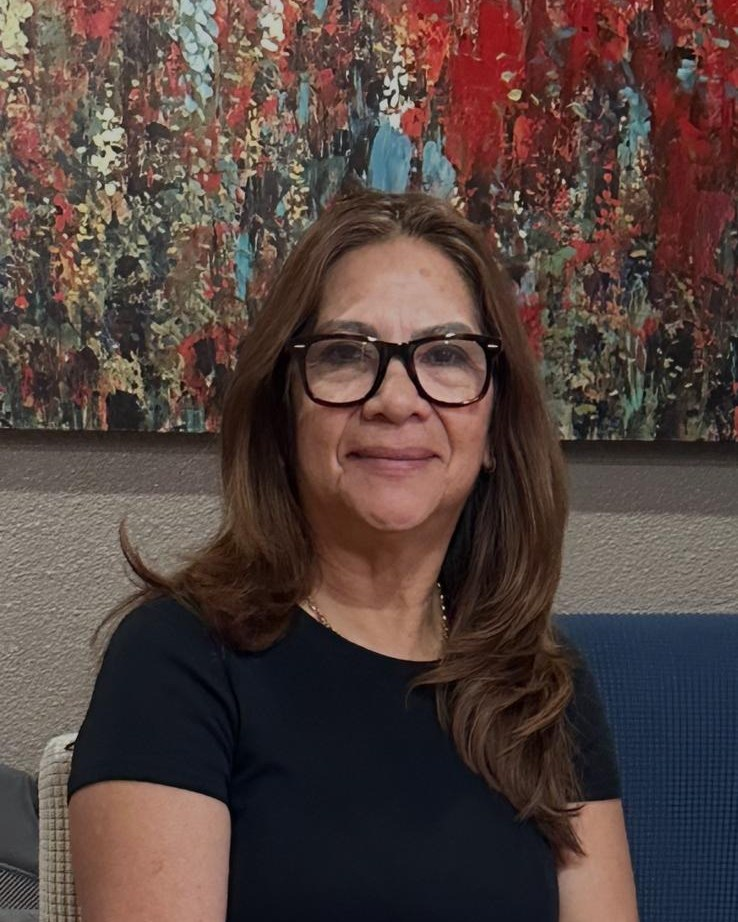
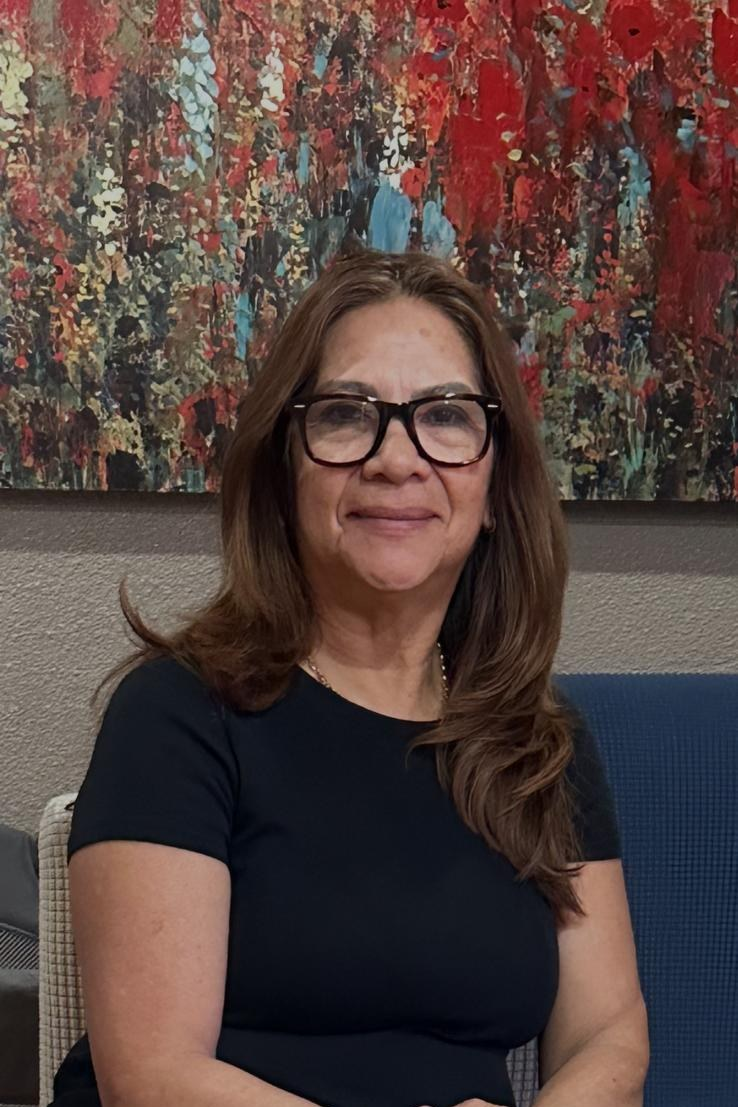
Ajustar encuadre de la foto de Eliza y rehacer el layout del equipo
Foto de la historia:
- Los atributos width/height anulaban el aspect-ratio, asi que la imagen
  se renderizaba a 469x922 y object-fit:cover recortaba los lados. Por eso
  se veia demasiado acercada al rostro.
- Quitar esos atributos, fijar aspect-ratio 4/6 y height:auto.
- Nuevo recorte 738x1107 que muestra la pose completa (cabeza a manos).
- Resultado: 469x704 de alto, mas baja que el texto (777) como se pidio.

Seccion de equipo:
- Nuevo .team-layout asimetrico (.82fr / 1.18fr) que ocupa los 1200px
  del contenedor, en vez de dos tarjetas centradas con espacio muerto
  a los lados.
- Titulo e intro a la izquierda, tarjetas a la derecha.
- Nueva pastilla .team-tag con el dato de experiencia combinada.
- Breakpoint 960px apila y centra; 640px pasa las tarjetas a una columna.
- Subir el cache buster a v18.

diff --git a/es/about/index.html b/es/about/index.html
@@ -26,7 +26,7 @@
 <link rel="preconnect" href="https://fonts.googleapis.com">
 <link rel="preconnect" href="https://fonts.gstatic.com" crossorigin>
 <link href="https://fonts.googleapis.com/css2?family=Fraunces:ital,opsz,wght@0,9..144,400;0,9..144,500;0,9..144,600;1,9..144,400&family=Plus+Jakarta+Sans:wght@400;500;600;700;800&display=swap" rel="stylesheet">
-<link rel="stylesheet" href="/assets/css/styles.css?v=17">
+<link rel="stylesheet" href="/assets/css/styles.css?v=18">
 
 <!-- Breadcrumb + AboutPage schema -->
 <script type="application/ld+json">
@@ -113,7 +113,7 @@
       <p>Aquí, los niños no son un número en un salón grande. Son <b>parte de nuestra familia</b> durante una etapa de sus vidas, y no tomamos esa confianza a la ligera.</p>
     </div>
     <div class="hero-media" style="max-width:none">
-      <img class="photo" src="/assets/img/elizabeth-portrait.jpg" alt="Eliza, proveedora licenciada de cuidado infantil familiar en Blossom Hill, San Jose" width="738" height="922" style="border-radius:var(--radius-lg);box-shadow:var(--shadow);aspect-ratio:4/4.7;object-position:50% 22%">
+      <img class="photo" src="/assets/img/elizabeth-portrait.jpg" alt="Eliza, proveedora licenciada de cuidado infantil familiar en Blossom Hill, San Jose" style="border-radius:var(--radius-lg);box-shadow:var(--shadow);aspect-ratio:4/6;height:auto;object-position:50% 30%">
     </div>
   </div>
 </section>
@@ -121,12 +121,14 @@
 <!-- TEAM -->
 <section class="section bg-sand">
   <div class="wrap">
-    <div class="section-head">
-      <span class="eyebrow">Conoce al equipo</span>
-      <h2>Las mismas caras de siempre, año tras año</h2>
-      <p>Eliza no hace esto sola. Dos cuidadoras llevan años siendo parte de esta casa, y son una gran razón por la que los niños se adaptan tan rápido y las familias se quedan tanto tiempo.</p>
-    </div>
-    <div class="team-grid">
+    <div class="team-layout">
+      <div class="team-intro">
+        <span class="eyebrow">Conoce al equipo</span>
+        <h2>Las mismas caras de siempre, año tras año</h2>
+        <p>Eliza no hace esto sola. Dos cuidadoras llevan años siendo parte de esta casa, y son una gran razón por la que los niños se adaptan tan rápido y las familias se quedan tanto tiempo.</p>
+        <span class="team-tag"><svg viewBox="0 0 24 24" aria-hidden="true"><circle cx="12" cy="12" r="9"/><path d="M12 7.5V12l3 2"/></svg>14 años de experiencia combinada en esta casa</span>
+      </div>
+      <div class="team-grid">
       <div class="team-card">
         <div class="team-ava"><img src="/assets/img/team-vilma.jpg" alt="Vilma Villarroel, cuidadora en Eliza's Family Childcare en San Jose" width="738" height="738" loading="lazy"></div>
         <h3>Vilma Villarroel</h3>
@@ -138,6 +140,7 @@
         <h3>Ana Piñeros</h3>
         <div class="team-role">Cuidadora</div>
         <span class="team-years"><svg viewBox="0 0 24 24" aria-hidden="true"><path d="M12 20.5s-6.6-4.2-6.6-9A3.9 3.9 0 0 1 12 8.7a3.9 3.9 0 0 1 6.6 2.8c0 4.8-6.6 9-6.6 9z"/></svg>4 años con Eliza's</span>
+      </div>
       </div>
     </div>
   </div>
@@ -282,7 +285,7 @@
   </div>
 </footer>
 
-<script src="/assets/js/main.js?v=17"></script>
+<script src="/assets/js/main.js?v=18"></script>
 <!-- WhatsApp flotante -->
 <a class="wa-float" href="https://wa.me/14083359357?text=Hola%2C%20me%20gustar%C3%ADa%20m%C3%A1s%20informaci%C3%B3n%20sobre%20Eliza%27s%20Family%20Childcare." target="_blank" rel="noopener" aria-label="Escríbenos por WhatsApp">
   <svg viewBox="0 0 32 32" aria-hidden="true"><path d="M16 3C9.4 3 4 8.4 4 15c0 2.1.6 4.1 1.6 5.9L4 29l8.3-1.6c1.7.9 3.6 1.4 5.7 1.4 6.6 0 12-5.4 12-12S22.6 3 16 3zm0 21.8c-1.8 0-3.5-.5-5-1.4l-.4-.2-4.9 1 1-4.8-.2-.4c-1-1.6-1.5-3.4-1.5-5.3C5 9.5 9.9 4.6 16 4.6S27 9.5 27 15.6 22.1 24.8 16 24.8zm6.1-7.9c-.3-.2-1.9-1-2.2-1.1-.3-.1-.5-.2-.7.2-.2.3-.8 1.1-1 1.3-.2.2-.4.2-.7.1-.3-.2-1.4-.5-2.6-1.6-1-.9-1.6-2-1.8-2.3-.2-.3 0-.5.1-.7.1-.1.3-.4.5-.6.2-.2.2-.3.3-.5.1-.2 0-.4 0-.6-.1-.2-.7-1.7-1-2.3-.3-.6-.5-.5-.7-.5h-.6c-.2 0-.6.1-.9.4-.3.3-1.2 1.1-1.2 2.7s1.2 3.1 1.4 3.4c.2.2 2.4 3.7 5.9 5.2.8.4 1.5.6 2 .7.8.3 1.6.2 2.2.1.7-.1 2-.8 2.2-1.6.3-.8.3-1.4.2-1.6-.1-.2-.3-.2-.6-.4z"/></svg>

diff --git a/about/index.html b/about/index.html
@@ -26,7 +26,7 @@
 <link rel="preconnect" href="https://fonts.googleapis.com">
 <link rel="preconnect" href="https://fonts.gstatic.com" crossorigin>
 <link href="https://fonts.googleapis.com/css2?family=Fraunces:ital,opsz,wght@0,9..144,400;0,9..144,500;0,9..144,600;1,9..144,400&family=Plus+Jakarta+Sans:wght@400;500;600;700;800&display=swap" rel="stylesheet">
-<link rel="stylesheet" href="/assets/css/styles.css?v=17">
+<link rel="stylesheet" href="/assets/css/styles.css?v=18">
 
 <!-- Breadcrumb + AboutPage schema -->
 <script type="application/ld+json">
@@ -113,7 +113,7 @@
       <p>Here, children aren't a number in a big room. They're <b>part of our family</b> for a season of their lives, and we don't take that trust lightly.</p>
     </div>
     <div class="hero-media" style="max-width:none">
-      <img class="photo" src="/assets/img/elizabeth-portrait.jpg" alt="Eliza, licensed family childcare provider in Blossom Hill, San Jose" width="738" height="922" style="border-radius:var(--radius-lg);box-shadow:var(--shadow);aspect-ratio:4/4.7;object-position:50% 22%">
+      <img class="photo" src="/assets/img/elizabeth-portrait.jpg" alt="Eliza, licensed family childcare provider in Blossom Hill, San Jose" style="border-radius:var(--radius-lg);box-shadow:var(--shadow);aspect-ratio:4/6;height:auto;object-position:50% 30%">
     </div>
   </div>
 </section>
@@ -121,12 +121,14 @@
 <!-- TEAM -->
 <section class="section bg-sand">
   <div class="wrap">
-    <div class="section-head">
-      <span class="eyebrow">Meet the team</span>
-      <h2>The same loving faces, year after year</h2>
-      <p>Eliza doesn't do this alone. Two caregivers have been part of this home for years, and they're a big reason children settle in so fast and families stay so long.</p>
-    </div>
-    <div class="team-grid">
+    <div class="team-layout">
+      <div class="team-intro">
+        <span class="eyebrow">Meet the team</span>
+        <h2>The same loving faces, year after year</h2>
+        <p>Eliza doesn't do this alone. Two caregivers have been part of this home for years, and they're a big reason children settle in so fast and families stay so long.</p>
+        <span class="team-tag"><svg viewBox="0 0 24 24" aria-hidden="true"><circle cx="12" cy="12" r="9"/><path d="M12 7.5V12l3 2"/></svg>14 years of combined experience in this home</span>
+      </div>
+      <div class="team-grid">
       <div class="team-card">
         <div class="team-ava"><img src="/assets/img/team-vilma.jpg" alt="Vilma Villarroel, caregiver at Eliza's Family Childcare in San Jose" width="738" height="738" loading="lazy"></div>
         <h3>Vilma Villarroel</h3>
@@ -138,6 +140,7 @@
         <h3>Ana Pi&ntilde;eros</h3>
         <div class="team-role">Caregiver</div>
         <span class="team-years"><svg viewBox="0 0 24 24" aria-hidden="true"><path d="M12 20.5s-6.6-4.2-6.6-9A3.9 3.9 0 0 1 12 8.7a3.9 3.9 0 0 1 6.6 2.8c0 4.8-6.6 9-6.6 9z"/></svg>4 years with Eliza's</span>
+      </div>
       </div>
     </div>
   </div>
@@ -281,7 +284,7 @@
   </div>
 </footer>
 
-<script src="/assets/js/main.js?v=17"></script>
+<script src="/assets/js/main.js?v=18"></script>
 <!-- Cambio de idioma flotante -->
 <a class="lang-float" href="/es/about/" aria-label="Cambiar el sitio a espanol"><svg viewBox="0 0 24 24" aria-hidden="true"><circle cx="12" cy="12" r="9"/><path d="M3 12h18M12 3c2.5 2.6 3.8 5.7 3.8 9s-1.3 6.4-3.8 9c-2.5-2.6-3.8-5.7-3.8-9S9.5 5.6 12 3z"/></svg><span>Español</span></a>
 </body>

diff --git a/assets/css/styles.css b/assets/css/styles.css
@@ -419,8 +419,14 @@ section{position:relative;}
 .cred p{font-size:14px;margin:0;}
 
 /* Team / caregivers */
-.team-grid{display:grid;grid-template-columns:repeat(2,1fr);gap:26px;max-width:820px;margin:0 auto;}
-.team-card{background:#fff;border:1px solid var(--line);border-radius:var(--radius-lg);padding:34px 26px 30px;text-align:center;position:relative;overflow:hidden;
+.team-layout{display:grid;grid-template-columns:.82fr 1.18fr;gap:56px;align-items:center;}
+.team-intro h2{font-size:clamp(28px,3.2vw,40px);margin:12px 0 14px;}
+.team-intro p{font-size:16.5px;color:var(--slate);}
+.team-intro .team-tag{display:inline-flex;align-items:center;gap:9px;margin-top:20px;padding:11px 18px;border-radius:var(--radius);
+  background:#fff;border:1px solid var(--line);font-size:14px;font-weight:700;color:var(--midnight);}
+.team-intro .team-tag svg{width:19px;height:19px;flex:none;fill:none;stroke:var(--orchid);stroke-width:2;stroke-linecap:round;stroke-linejoin:round;}
+.team-grid{display:grid;grid-template-columns:repeat(2,1fr);gap:24px;}
+.team-card{background:#fff;border:1px solid var(--line);border-radius:var(--radius-lg);padding:34px 24px 30px;text-align:center;position:relative;overflow:hidden;
   transition:transform .35s var(--ease),box-shadow .35s var(--ease),border-color .35s;}
 .team-card::before{content:"";position:absolute;left:0;top:0;height:5px;width:100%;background:linear-gradient(90deg,var(--orchid),var(--mango));opacity:.85;}
 .team-card:hover{transform:translateY(-6px);box-shadow:var(--shadow);border-color:transparent;}
@@ -432,7 +438,8 @@ section{position:relative;}
   background:rgba(218,112,214,.14);color:#A5399F;font-size:13px;font-weight:800;letter-spacing:.01em;}
 .team-years svg{width:14px;height:14px;fill:none;stroke:currentColor;stroke-width:2.2;stroke-linecap:round;stroke-linejoin:round;}
 .team-card p.team-note{font-size:14.5px;margin-top:14px;}
-@media (max-width:640px){.team-grid{grid-template-columns:1fr;max-width:380px;gap:22px;}.team-ava{width:160px;height:160px;}}
+@media (max-width:960px){.team-layout{grid-template-columns:1fr;gap:36px;}.team-intro{text-align:center;max-width:640px;margin:0 auto;}}
+@media (max-width:640px){.team-grid{grid-template-columns:1fr;max-width:380px;margin:0 auto;gap:22px;}.team-ava{width:160px;height:160px;}}
 @media (prefers-reduced-motion:reduce){.team-card{transition:none;}.team-card:hover{transform:none;}}
 
 /* Value row (icon + text list) */

diff --git a/es/index.html b/es/index.html
@@ -29,7 +29,7 @@
 <link rel="preconnect" href="https://fonts.googleapis.com">
 <link rel="preconnect" href="https://fonts.gstatic.com" crossorigin>
 <link href="https://fonts.googleapis.com/css2?family=Fraunces:ital,opsz,wght@0,9..144,400;0,9..144,500;0,9..144,600;1,9..144,400&family=Plus+Jakarta+Sans:wght@400;500;600;700;800&display=swap" rel="stylesheet">
-<link rel="stylesheet" href="/assets/css/styles.css?v=17">
+<link rel="stylesheet" href="/assets/css/styles.css?v=18">
 
 <!-- ================= JSON-LD: ChildCare / LocalBusiness (GEO + NAP) ================= -->
 <script type="application/ld+json">
@@ -413,7 +413,7 @@
   </div>
 </footer>
 
-<script src="/assets/js/main.js?v=17"></script>
+<script src="/assets/js/main.js?v=18"></script>
 <!-- WhatsApp flotante -->
 <a class="wa-float" href="https://wa.me/14083359357?text=Hola%2C%20me%20gustar%C3%ADa%20m%C3%A1s%20informaci%C3%B3n%20sobre%20Eliza%27s%20Family%20Childcare." target="_blank" rel="noopener" aria-label="Escríbenos por WhatsApp">
   <svg viewBox="0 0 32 32" aria-hidden="true"><path d="M16 3C9.4 3 4 8.4 4 15c0 2.1.6 4.1 1.6 5.9L4 29l8.3-1.6c1.7.9 3.6 1.4 5.7 1.4 6.6 0 12-5.4 12-12S22.6 3 16 3zm0 21.8c-1.8 0-3.5-.5-5-1.4l-.4-.2-4.9 1 1-4.8-.2-.4c-1-1.6-1.5-3.4-1.5-5.3C5 9.5 9.9 4.6 16 4.6S27 9.5 27 15.6 22.1 24.8 16 24.8zm6.1-7.9c-.3-.2-1.9-1-2.2-1.1-.3-.1-.5-.2-.7.2-.2.3-.8 1.1-1 1.3-.2.2-.4.2-.7.1-.3-.2-1.4-.5-2.6-1.6-1-.9-1.6-2-1.8-2.3-.2-.3 0-.5.1-.7.1-.1.3-.4.5-.6.2-.2.2-.3.3-.5.1-.2 0-.4 0-.6-.1-.2-.7-1.7-1-2.3-.3-.6-.5-.5-.7-.5h-.6c-.2 0-.6.1-.9.4-.3.3-1.2 1.1-1.2 2.7s1.2 3.1 1.4 3.4c.2.2 2.4 3.7 5.9 5.2.8.4 1.5.6 2 .7.8.3 1.6.2 2.2.1.7-.1 2-.8 2.2-1.6.3-.8.3-1.4.2-1.6-.1-.2-.3-.2-.6-.4z"/></svg>

diff --git a/es/contact/index.html b/es/contact/index.html
@@ -26,7 +26,7 @@
 <link rel="preconnect" href="https://fonts.googleapis.com">
 <link rel="preconnect" href="https://fonts.gstatic.com" crossorigin>
 <link href="https://fonts.googleapis.com/css2?family=Fraunces:ital,opsz,wght@0,9..144,400;0,9..144,500;0,9..144,600;1,9..144,400&family=Plus+Jakarta+Sans:wght@400;500;600;700;800&display=swap" rel="stylesheet">
-<link rel="stylesheet" href="/assets/css/styles.css?v=17">
+<link rel="stylesheet" href="/assets/css/styles.css?v=18">
 
 <script type="application/ld+json">
 {
@@ -261,7 +261,7 @@
   </div>
 </footer>
 
-<script src="/assets/js/main.js?v=17"></script>
+<script src="/assets/js/main.js?v=18"></script>
 <!-- WhatsApp flotante -->
 <a class="wa-float" href="https://wa.me/14083359357?text=Hola%2C%20me%20gustar%C3%ADa%20m%C3%A1s%20informaci%C3%B3n%20sobre%20Eliza%27s%20Family%20Childcare." target="_blank" rel="noopener" aria-label="Escríbenos por WhatsApp">
   <svg viewBox="0 0 32 32" aria-hidden="true"><path d="M16 3C9.4 3 4 8.4 4 15c0 2.1.6 4.1 1.6 5.9L4 29l8.3-1.6c1.7.9 3.6 1.4 5.7 1.4 6.6 0 12-5.4 12-12S22.6 3 16 3zm0 21.8c-1.8 0-3.5-.5-5-1.4l-.4-.2-4.9 1 1-4.8-.2-.4c-1-1.6-1.5-3.4-1.5-5.3C5 9.5 9.9 4.6 16 4.6S27 9.5 27 15.6 22.1 24.8 16 24.8zm6.1-7.9c-.3-.2-1.9-1-2.2-1.1-.3-.1-.5-.2-.7.2-.2.3-.8 1.1-1 1.3-.2.2-.4.2-.7.1-.3-.2-1.4-.5-2.6-1.6-1-.9-1.6-2-1.8-2.3-.2-.3 0-.5.1-.7.1-.1.3-.4.5-.6.2-.2.2-.3.3-.5.1-.2 0-.4 0-.6-.1-.2-.7-1.7-1-2.3-.3-.6-.5-.5-.7-.5h-.6c-.2 0-.6.1-.9.4-.3.3-1.2 1.1-1.2 2.7s1.2 3.1 1.4 3.4c.2.2 2.4 3.7 5.9 5.2.8.4 1.5.6 2 .7.8.3 1.6.2 2.2.1.7-.1 2-.8 2.2-1.6.3-.8.3-1.4.2-1.6-.1-.2-.3-.2-.6-.4z"/></svg>

diff --git a/es/faq/index.html b/es/faq/index.html
@@ -26,7 +26,7 @@
 <link rel="preconnect" href="https://fonts.googleapis.com">
 <link rel="preconnect" href="https://fonts.gstatic.com" crossorigin>
 <link href="https://fonts.googleapis.com/css2?family=Fraunces:ital,opsz,wght@0,9..144,400;0,9..144,500;0,9..144,600;1,9..144,400&family=Plus+Jakarta+Sans:wght@400;500;600;700;800&display=swap" rel="stylesheet">
-<link rel="stylesheet" href="/assets/css/styles.css?v=17">
+<link rel="stylesheet" href="/assets/css/styles.css?v=18">
 
 <script type="application/ld+json">
 {
@@ -203,7 +203,7 @@
   </div>
 </footer>
 
-<script src="/assets/js/main.js?v=17"></script>
+<script src="/assets/js/main.js?v=18"></script>
 <!-- WhatsApp flotante -->
 <a class="wa-float" href="https://wa.me/14083359357?text=Hola%2C%20me%20gustar%C3%ADa%20m%C3%A1s%20informaci%C3%B3n%20sobre%20Eliza%27s%20Family%20Childcare." target="_blank" rel="noopener" aria-label="Escríbenos por WhatsApp">
   <svg viewBox="0 0 32 32" aria-hidden="true"><path d="M16 3C9.4 3 4 8.4 4 15c0 2.1.6 4.1 1.6 5.9L4 29l8.3-1.6c1.7.9 3.6 1.4 5.7 1.4 6.6 0 12-5.4 12-12S22.6 3 16 3zm0 21.8c-1.8 0-3.5-.5-5-1.4l-.4-.2-4.9 1 1-4.8-.2-.4c-1-1.6-1.5-3.4-1.5-5.3C5 9.5 9.9 4.6 16 4.6S27 9.5 27 15.6 22.1 24.8 16 24.8zm6.1-7.9c-.3-.2-1.9-1-2.2-1.1-.3-.1-.5-.2-.7.2-.2.3-.8 1.1-1 1.3-.2.2-.4.2-.7.1-.3-.2-1.4-.5-2.6-1.6-1-.9-1.6-2-1.8-2.3-.2-.3 0-.5.1-.7.1-.1.3-.4.5-.6.2-.2.2-.3.3-.5.1-.2 0-.4 0-.6-.1-.2-.7-1.7-1-2.3-.3-.6-.5-.5-.7-.5h-.6c-.2 0-.6.1-.9.4-.3.3-1.2 1.1-1.2 2.7s1.2 3.1 1.4 3.4c.2.2 2.4 3.7 5.9 5.2.8.4 1.5.6 2 .7.8.3 1.6.2 2.2.1.7-.1 2-.8 2.2-1.6.3-.8.3-1.4.2-1.6-.1-.2-.3-.2-.6-.4z"/></svg>

diff --git a/es/gallery/index.html b/es/gallery/index.html
@@ -26,7 +26,7 @@
 <link rel="preconnect" href="https://fonts.googleapis.com">
 <link rel="preconnect" href="https://fonts.gstatic.com" crossorigin>
 <link href="https://fonts.googleapis.com/css2?family=Fraunces:ital,opsz,wght@0,9..144,400;0,9..144,500;0,9..144,600;1,9..144,400&family=Plus+Jakarta+Sans:wght@400;500;600;700;800&display=swap" rel="stylesheet">
-<link rel="stylesheet" href="/assets/css/styles.css?v=17">
+<link rel="stylesheet" href="/assets/css/styles.css?v=18">
 
 <script type="application/ld+json">
 {
@@ -494,7 +494,7 @@
   </div>
 </footer>
 
-<script src="/assets/js/main.js?v=17"></script>
+<script src="/assets/js/main.js?v=18"></script>
 <!-- WhatsApp flotante -->
 <a class="wa-float" href="https://wa.me/14083359357?text=Hola%2C%20me%20gustar%C3%ADa%20m%C3%A1s%20informaci%C3%B3n%20sobre%20Eliza%27s%20Family%20Childcare." target="_blank" rel="noopener" aria-label="Escríbenos por WhatsApp">
   <svg viewBox="0 0 32 32" aria-hidden="true"><path d="M16 3C9.4 3 4 8.4 4 15c0 2.1.6 4.1 1.6 5.9L4 29l8.3-1.6c1.7.9 3.6 1.4 5.7 1.4 6.6 0 12-5.4 12-12S22.6 3 16 3zm0 21.8c-1.8 0-3.5-.5-5-1.4l-.4-.2-4.9 1 1-4.8-.2-.4c-1-1.6-1.5-3.4-1.5-5.3C5 9.5 9.9 4.6 16 4.6S27 9.5 27 15.6 22.1 24.8 16 24.8zm6.1-7.9c-.3-.2-1.9-1-2.2-1.1-.3-.1-.5-.2-.7.2-.2.3-.8 1.1-1 1.3-.2.2-.4.2-.7.1-.3-.2-1.4-.5-2.6-1.6-1-.9-1.6-2-1.8-2.3-.2-.3 0-.5.1-.7.1-.1.3-.4.5-.6.2-.2.2-.3.3-.5.1-.2 0-.4 0-.6-.1-.2-.7-1.7-1-2.3-.3-.6-.5-.5-.7-.5h-.6c-.2 0-.6.1-.9.4-.3.3-1.2 1.1-1.2 2.7s1.2 3.1 1.4 3.4c.2.2 2.4 3.7 5.9 5.2.8.4 1.5.6 2 .7.8.3 1.6.2 2.2.1.7-.1 2-.8 2.2-1.6.3-.8.3-1.4.2-1.6-.1-.2-.3-.2-.6-.4z"/></svg>

diff --git a/es/programs/index.html b/es/programs/index.html
@@ -26,7 +26,7 @@
 <link rel="preconnect" href="https://fonts.googleapis.com">
 <link rel="preconnect" href="https://fonts.gstatic.com" crossorigin>
 <link href="https://fonts.googleapis.com/css2?family=Fraunces:ital,opsz,wght@0,9..144,400;0,9..144,500;0,9..144,600;1,9..144,400&family=Plus+Jakarta+Sans:wght@400;500;600;700;800&display=swap" rel="stylesheet">
-<link rel="stylesheet" href="/assets/css/styles.css?v=17">
+<link rel="stylesheet" href="/assets/css/styles.css?v=18">
 
 <script type="application/ld+json">
 {
@@ -229,7 +229,7 @@
   </div>
 </footer>
 
-<script src="/assets/js/main.js?v=17"></script>
+<script src="/assets/js/main.js?v=18"></script>
 <!-- WhatsApp flotante -->
 <a class="wa-float" href="https://wa.me/14083359357?text=Hola%2C%20me%20gustar%C3%ADa%20m%C3%A1s%20informaci%C3%B3n%20sobre%20Eliza%27s%20Family%20Childcare." target="_blank" rel="noopener" aria-label="Escríbenos por WhatsApp">
   <svg viewBox="0 0 32 32" aria-hidden="true"><path d="M16 3C9.4 3 4 8.4 4 15c0 2.1.6 4.1 1.6 5.9L4 29l8.3-1.6c1.7.9 3.6 1.4 5.7 1.4 6.6 0 12-5.4 12-12S22.6 3 16 3zm0 21.8c-1.8 0-3.5-.5-5-1.4l-.4-.2-4.9 1 1-4.8-.2-.4c-1-1.6-1.5-3.4-1.5-5.3C5 9.5 9.9 4.6 16 4.6S27 9.5 27 15.6 22.1 24.8 16 24.8zm6.1-7.9c-.3-.2-1.9-1-2.2-1.1-.3-.1-.5-.2-.7.2-.2.3-.8 1.1-1 1.3-.2.2-.4.2-.7.1-.3-.2-1.4-.5-2.6-1.6-1-.9-1.6-2-1.8-2.3-.2-.3 0-.5.1-.7.1-.1.3-.4.5-.6.2-.2.2-.3.3-.5.1-.2 0-.4 0-.6-.1-.2-.7-1.7-1-2.3-.3-.6-.5-.5-.7-.5h-.6c-.2 0-.6.1-.9.4-.3.3-1.2 1.1-1.2 2.7s1.2 3.1 1.4 3.4c.2.2 2.4 3.7 5.9 5.2.8.4 1.5.6 2 .7.8.3 1.6.2 2.2.1.7-.1 2-.8 2.2-1.6.3-.8.3-1.4.2-1.6-.1-.2-.3-.2-.6-.4z"/></svg>

diff --git a/es/programs/infant-care/index.html b/es/programs/infant-care/index.html
@@ -26,7 +26,7 @@
 <link rel="preconnect" href="https://fonts.googleapis.com">
 <link rel="preconnect" href="https://fonts.gstatic.com" crossorigin>
 <link href="https://fonts.googleapis.com/css2?family=Fraunces:ital,opsz,wght@0,9..144,400;0,9..144,500;0,9..144,600;1,9..144,400&family=Plus+Jakarta+Sans:wght@400;500;600;700;800&display=swap" rel="stylesheet">
-<link rel="stylesheet" href="/assets/css/styles.css?v=17">
+<link rel="stylesheet" href="/assets/css/styles.css?v=18">
 
 <script type="application/ld+json">
 {
@@ -226,7 +226,7 @@
   </div>
 </footer>
 
-<script src="/assets/js/main.js?v=17"></script>
+<script src="/assets/js/main.js?v=18"></script>
 <!-- WhatsApp flotante -->
 <a class="wa-float" href="https://wa.me/14083359357?text=Hola%2C%20me%20gustar%C3%ADa%20m%C3%A1s%20informaci%C3%B3n%20sobre%20Eliza%27s%20Family%20Childcare." target="_blank" rel="noopener" aria-label="Escríbenos por WhatsApp">
   <svg viewBox="0 0 32 32" aria-hidden="true"><path d="M16 3C9.4 3 4 8.4 4 15c0 2.1.6 4.1 1.6 5.9L4 29l8.3-1.6c1.7.9 3.6 1.4 5.7 1.4 6.6 0 12-5.4 12-12S22.6 3 16 3zm0 21.8c-1.8 0-3.5-.5-5-1.4l-.4-.2-4.9 1 1-4.8-.2-.4c-1-1.6-1.5-3.4-1.5-5.3C5 9.5 9.9 4.6 16 4.6S27 9.5 27 15.6 22.1 24.8 16 24.8zm6.1-7.9c-.3-.2-1.9-1-2.2-1.1-.3-.1-.5-.2-.7.2-.2.3-.8 1.1-1 1.3-.2.2-.4.2-.7.1-.3-.2-1.4-.5-2.6-1.6-1-.9-1.6-2-1.8-2.3-.2-.3 0-.5.1-.7.1-.1.3-.4.5-.6.2-.2.2-.3.3-.5.1-.2 0-.4 0-.6-.1-.2-.7-1.7-1-2.3-.3-.6-.5-.5-.7-.5h-.6c-.2 0-.6.1-.9.4-.3.3-1.2 1.1-1.2 2.7s1.2 3.1 1.4 3.4c.2.2 2.4 3.7 5.9 5.2.8.4 1.5.6 2 .7.8.3 1.6.2 2.2.1.7-.1 2-.8 2.2-1.6.3-.8.3-1.4.2-1.6-.1-.2-.3-.2-.6-.4z"/></svg>

diff --git a/es/programs/preschool/index.html b/es/programs/preschool/index.html
@@ -26,7 +26,7 @@
 <link rel="preconnect" href="https://fonts.googleapis.com">
 <link rel="preconnect" href="https://fonts.gstatic.com" crossorigin>
 <link href="https://fonts.googleapis.com/css2?family=Fraunces:ital,opsz,wght@0,9..144,400;0,9..144,500;0,9..144,600;1,9..144,400&family=Plus+Jakarta+Sans:wght@400;500;600;700;800&display=swap" rel="stylesheet">
-<link rel="stylesheet" href="/assets/css/styles.css?v=17">
+<link rel="stylesheet" href="/assets/css/styles.css?v=18">
 
 <script type="application/ld+json">
 {
@@ -225,7 +225,7 @@
   </div>
 </footer>
 
-<script src="/assets/js/main.js?v=17"></script>
+<script src="/assets/js/main.js?v=18"></script>
 <!-- WhatsApp flotante -->
 <a class="wa-float" href="https://wa.me/14083359357?text=Hola%2C%20me%20gustar%C3%ADa%20m%C3%A1s%20informaci%C3%B3n%20sobre%20Eliza%27s%20Family%20Childcare." target="_blank" rel="noopener" aria-label="Escríbenos por WhatsApp">
   <svg viewBox="0 0 32 32" aria-hidden="true"><path d="M16 3C9.4 3 4 8.4 4 15c0 2.1.6 4.1 1.6 5.9L4 29l8.3-1.6c1.7.9 3.6 1.4 5.7 1.4 6.6 0 12-5.4 12-12S22.6 3 16 3zm0 21.8c-1.8 0-3.5-.5-5-1.4l-.4-.2-4.9 1 1-4.8-.2-.4c-1-1.6-1.5-3.4-1.5-5.3C5 9.5 9.9 4.6 16 4.6S27 9.5 27 15.6 22.1 24.8 16 24.8zm6.1-7.9c-.3-.2-1.9-1-2.2-1.1-.3-.1-.5-.2-.7.2-.2.3-.8 1.1-1 1.3-.2.2-.4.2-.7.1-.3-.2-1.4-.5-2.6-1.6-1-.9-1.6-2-1.8-2.3-.2-.3 0-.5.1-.7.1-.1.3-.4.5-.6.2-.2.2-.3.3-.5.1-.2 0-.4 0-.6-.1-.2-.7-1.7-1-2.3-.3-.6-.5-.5-.7-.5h-.6c-.2 0-.6.1-.9.4-.3.3-1.2 1.1-1.2 2.7s1.2 3.1 1.4 3.4c.2.2 2.4 3.7 5.9 5.2.8.4 1.5.6 2 .7.8.3 1.6.2 2.2.1.7-.1 2-.8 2.2-1.6.3-.8.3-1.4.2-1.6-.1-.2-.3-.2-.6-.4z"/></svg>

diff --git a/es/programs/toddler-care/index.html b/es/programs/toddler-care/index.html
@@ -26,7 +26,7 @@
 <link rel="preconnect" href="https://fonts.googleapis.com">
 <link rel="preconnect" href="https://fonts.gstatic.com" crossorigin>
 <link href="https://fonts.googleapis.com/css2?family=Fraunces:ital,opsz,wght@0,9..144,400;0,9..144,500;0,9..144,600;1,9..144,400&family=Plus+Jakarta+Sans:wght@400;500;600;700;800&display=swap" rel="stylesheet">
-<link rel="stylesheet" href="/assets/css/styles.css?v=17">
+<link rel="stylesheet" href="/assets/css/styles.css?v=18">
 
 <script type="application/ld+json">
 {
@@ -225,7 +225,7 @@
   </div>
 </footer>
 
-<script src="/assets/js/main.js?v=17"></script>
+<script src="/assets/js/main.js?v=18"></script>
 <!-- WhatsApp flotante -->
 <a class="wa-float" href="https://wa.me/14083359357?text=Hola%2C%20me%20gustar%C3%ADa%20m%C3%A1s%20informaci%C3%B3n%20sobre%20Eliza%27s%20Family%20Childcare." target="_blank" rel="noopener" aria-label="Escríbenos por WhatsApp">
   <svg viewBox="0 0 32 32" aria-hidden="true"><path d="M16 3C9.4 3 4 8.4 4 15c0 2.1.6 4.1 1.6 5.9L4 29l8.3-1.6c1.7.9 3.6 1.4 5.7 1.4 6.6 0 12-5.4 12-12S22.6 3 16 3zm0 21.8c-1.8 0-3.5-.5-5-1.4l-.4-.2-4.9 1 1-4.8-.2-.4c-1-1.6-1.5-3.4-1.5-5.3C5 9.5 9.9 4.6 16 4.6S27 9.5 27 15.6 22.1 24.8 16 24.8zm6.1-7.9c-.3-.2-1.9-1-2.2-1.1-.3-.1-.5-.2-.7.2-.2.3-.8 1.1-1 1.3-.2.2-.4.2-.7.1-.3-.2-1.4-.5-2.6-1.6-1-.9-1.6-2-1.8-2.3-.2-.3 0-.5.1-.7.1-.1.3-.4.5-.6.2-.2.2-.3.3-.5.1-.2 0-.4 0-.6-.1-.2-.7-1.7-1-2.3-.3-.6-.5-.5-.7-.5h-.6c-.2 0-.6.1-.9.4-.3.3-1.2 1.1-1.2 2.7s1.2 3.1 1.4 3.4c.2.2 2.4 3.7 5.9 5.2.8.4 1.5.6 2 .7.8.3 1.6.2 2.2.1.7-.1 2-.8 2.2-1.6.3-.8.3-1.4.2-1.6-.1-.2-.3-.2-.6-.4z"/></svg>

diff --git a/es/tuition/index.html b/es/tuition/index.html
@@ -26,7 +26,7 @@
 <link rel="preconnect" href="https://fonts.googleapis.com">
 <link rel="preconnect" href="https://fonts.gstatic.com" crossorigin>
 <link href="https://fonts.googleapis.com/css2?family=Fraunces:ital,opsz,wght@0,9..144,400;0,9..144,500;0,9..144,600;1,9..144,400&family=Plus+Jakarta+Sans:wght@400;500;600;700;800&display=swap" rel="stylesheet">
-<link rel="stylesheet" href="/assets/css/styles.css?v=17">
+<link rel="stylesheet" href="/assets/css/styles.css?v=18">
 
 <script type="application/ld+json">
 {
@@ -299,7 +299,7 @@
   </div>
 </footer>
 
-<script src="/assets/js/main.js?v=17"></script>
+<script src="/assets/js/main.js?v=18"></script>
 <!-- WhatsApp flotante -->
 <a class="wa-float" href="https://wa.me/14083359357?text=Hola%2C%20me%20gustar%C3%ADa%20m%C3%A1s%20informaci%C3%B3n%20sobre%20Eliza%27s%20Family%20Childcare." target="_blank" rel="noopener" aria-label="Escríbenos por WhatsApp">
   <svg viewBox="0 0 32 32" aria-hidden="true"><path d="M16 3C9.4 3 4 8.4 4 15c0 2.1.6 4.1 1.6 5.9L4 29l8.3-1.6c1.7.9 3.6 1.4 5.7 1.4 6.6 0 12-5.4 12-12S22.6 3 16 3zm0 21.8c-1.8 0-3.5-.5-5-1.4l-.4-.2-4.9 1 1-4.8-.2-.4c-1-1.6-1.5-3.4-1.5-5.3C5 9.5 9.9 4.6 16 4.6S27 9.5 27 15.6 22.1 24.8 16 24.8zm6.1-7.9c-.3-.2-1.9-1-2.2-1.1-.3-.1-.5-.2-.7.2-.2.3-.8 1.1-1 1.3-.2.2-.4.2-.7.1-.3-.2-1.4-.5-2.6-1.6-1-.9-1.6-2-1.8-2.3-.2-.3 0-.5.1-.7.1-.1.3-.4.5-.6.2-.2.2-.3.3-.5.1-.2 0-.4 0-.6-.1-.2-.7-1.7-1-2.3-.3-.6-.5-.5-.7-.5h-.6c-.2 0-.6.1-.9.4-.3.3-1.2 1.1-1.2 2.7s1.2 3.1 1.4 3.4c.2.2 2.4 3.7 5.9 5.2.8.4 1.5.6 2 .7.8.3 1.6.2 2.2.1.7-.1 2-.8 2.2-1.6.3-.8.3-1.4.2-1.6-.1-.2-.3-.2-.6-.4z"/></svg>
